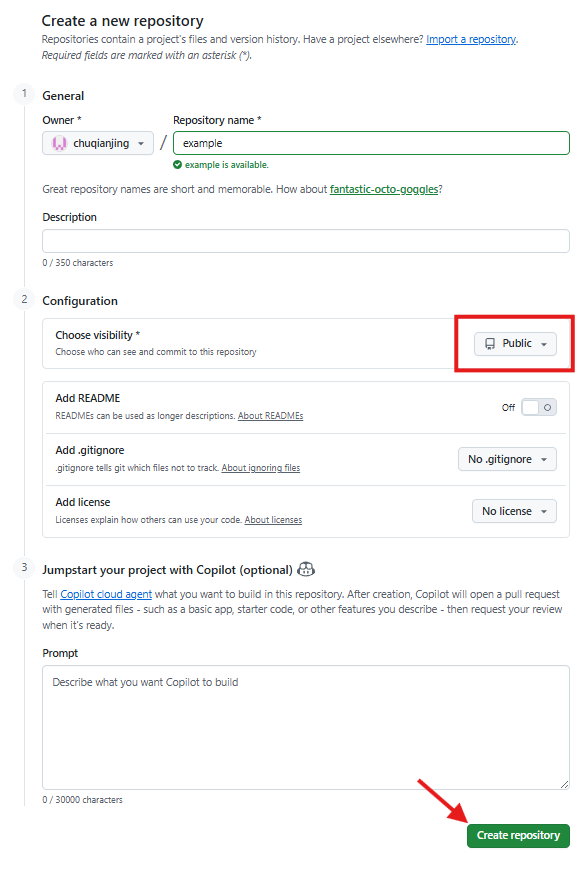
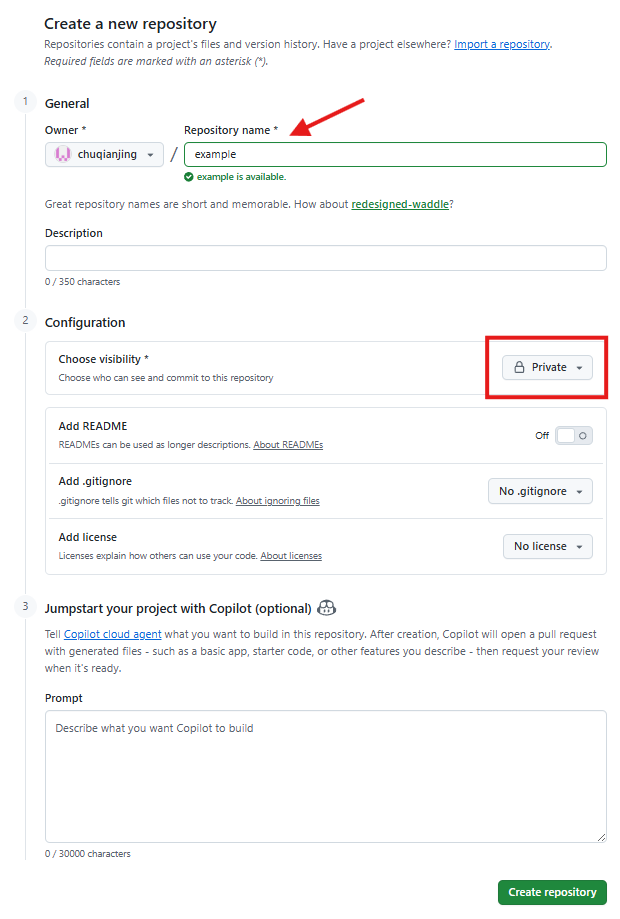
docs: 进一步完善同步设置项说明文档

diff --git a/src/ui/member_settings_page.py b/src/ui/member_settings_page.py
@@ -205,11 +205,6 @@ class MemberSettingsPage(QWidget):
         self.info_sync_time_label = QLabel("-")
         self.info_sync_time_label.setStyleSheet("color: #666;")
         info_sync_status_layout.addWidget(self.info_sync_time_label)
-        info_sync_status_layout.addSpacing(12)
-        info_sync_status_layout.addWidget(QLabel("同步平台："))
-        self.info_sync_provider_label = QLabel("-")
-        self.info_sync_provider_label.setStyleSheet("color: #666;")
-        info_sync_status_layout.addWidget(self.info_sync_provider_label)
         info_sync_status_layout.addStretch()
         info_sync_form.addLayout(info_sync_status_layout)
 
@@ -983,9 +978,6 @@ class MemberSettingsPage(QWidget):
     def _load_info_sync_status(self):
         """加载信息同步状态。"""
         info_cfg = self.data_manager.get_info_sync_settings()
-        # 从 system_settings 中获取最近一次同步使用的 provider 显示
-        recorded_provider = str(info_cfg.get("provider", "") or "")
-        self.info_sync_provider_label.setText(recorded_provider if recorded_provider else "-")
         sync_result = info_cfg.get("last_sync_result", {}) or {}
         status = str(sync_result.get("status", "") or "未测试")
         if status == "success":

diff --git a/src/persistence/settings_manager.py b/src/persistence/settings_manager.py
@@ -80,7 +80,6 @@ class SettingsManager:
     def get_default_info_sync_settings() -> Dict[str, Any]:
         return {
             "enabled": True,
-            "provider": "feishu",
             "last_sync_result": {
                 "time": "",
                 "status": "",
@@ -96,8 +95,6 @@ class SettingsManager:
             return merged
 
         merged.update({k: v for k, v in config.items() if k in merged})
-        provider = str(merged.get("provider", "feishu")).lower()
-        merged["provider"] = provider if provider in ("feishu", "tencent", "wps") else "feishu"
         return merged
 
     # ======================= 配置同步（管理员端 -> 远程） =======================

diff --git a/src/application/data_manager.py b/src/application/data_manager.py
@@ -844,7 +844,6 @@ class DataManager:
 
         current_cfg = self.get_info_sync_settings()
         now = datetime.now().isoformat()
-        current_cfg["provider"] = provider
         current_cfg["last_sync_result"] = {
             "time": now,
             "status": "success" if success else "failed",

diff --git a/docs/sync_guide.md b/docs/sync_guide.md
@@ -9,70 +9,76 @@
 
 工具借助第三方平台实现双端通信，涉及两个方向：
 
-1. **配置下发（管理员 → 成员）**：管理员将配置文件 `admin_config.json` 推送至远程仓库的静态资源 URL，成员端启动时自动拉取该文件；
-2. **信息汇总（成员 → 管理员）**：成员基本信息自动传输至管理员管理的在线表格；同时管理员在表格中维护的“预期进度”等字段会回填至成员端。
+1. **信息汇总（成员 → 管理员）**：成员基本信息自动传输至由管理员管理的在线表格；同时管理员在表格中维护的“预期进度”等字段会回填至成员端；
+2. **配置下发（管理员 → 成员）**：管理员将配置文件 `admin_config.json` 推送至远程仓库的静态资源 URL，成员端启动时自动拉取该文件。
 
-配置同步设置项的目的是，让工具通过这些项拿到能够访问相应表格、仓库的权限，从而实现查找、编辑等操作。这些设置项需要管理员在对应官网来创建。
+配置同步设置项的目的是，让工具通过这些项拿到能够访问相应表格、仓库的权限，从而实现查找、编辑等操作。这些设置项需由管理员在对应官网来创建。
 
 
 ## 一、设置在线表格（成员信息同步）
 
+该步骤务必遵循**最小权限原则**，即确保工具同步设置项既能够访问指定的成员信息汇总表，而不会访问到用户在平台上的其他隐私数据。
+
+三种平台满足该原则的策略有所不同，用户自行选取：飞书多维表格和WPS多维表格的模式均是“自建应用具备可写能力+表格允许该应用可编辑=该应用可编辑该表格”，以应用为基础、单次设置时步骤较多、但安全性更可控；而腾讯智能表格的模式是“账号授权开发API+表格允许该账号协作=该开发API可编辑该表格”，以账号为基础、单次设置时步骤较少、但安全性不太好控制。
+
 ### 1、飞书多维表格
 
-注册/登录 [飞书开放平台](https://open.feishu.cn/)，创建**企业自建应用**。企业自建应用不能归属单独个人账号，没有企业账号的用户需先在飞书客户端免费创建一个团队、然后用该账号登陆开放平台，即可创建企业自建应用。
+注册/登录 [飞书开放平台](https://open.feishu.cn/)，创建**企业自建应用**。企业自建应用不能归属单独个人账号，没有企业账号的用户需先在飞书客户端免费创建一个团队、然后用该账号登陆开放平台，即可创建企业自建应用。创建后打开该应用设置相关项。
 ![alt text](photos/飞书1.png)
 
-在应用「凭证与基础信息」中获取 **App ID** 与 **App Secret**。
+在「凭证与基础信息」中获取 **App ID** 与 **App Secret**。
 ![alt text](photos/飞书2.png)
 
-在应用「权限管理」中开通多维表格相关读写权限，具体名称是“查看、评论、编辑和管理多维表格”。
+在「权限管理」中开通多维表格相关读写权限，具体名称是“**查看、评论、编辑和管理多维表格**”。
 ![alt text](photos/飞书3.png)
 
-在应用「版本管理与发布」中创建版本并发布，使权限和应用生效。
+在「版本管理与发布」中创建版本并发布，使权限和应用生效。**注意，凡是修改了该应用的任何项，都应新建版本并发布，相应修改方能生效。**
 ![alt text](photos/飞书4.png)
 
-创建/打开一个**多维表格**，将该应用添加为表格协作者。为保护数据隐私，建议在“分享”处保持该表仅协作者可访问。
+打开飞书客户端，新建一个**多维表格**作为成员信息汇总表，**将刚才新建的企业自建应用添加为表格协作者**（否则该应用无法访问该表格）。为保护数据隐私，建议在“分享”处保持该表仅协作者可访问。
 ![alt text](photos/飞书5.png)
 
-将多维表格的分享链接复制并通过浏览器打开，此时从浏览器显示的表格链接 `https://xxx.feishu.cn/base/{AppToken}?table={TableID}` 中获取该表格的 **App Token** 与 **Table ID**。
+复制多维表格的分享链接，在浏览器粘贴并打开，此时从浏览器显示的表格链接 `https://xxx.feishu.cn/base/{AppToken}?table={TableID}` 中获取该表格的 **App Token** 与 **Table ID**。
 
 将以上的 **飞书AppID、飞书AppSecret、飞书AppToken、飞书TableID** 填入工具。
 
 ### 2、腾讯智能表格
 
-注册/登录 [腾讯文档开放平台](https://docs.qq.com/open/)，申请开发者资质。在「开发者信息」中获取 **Client ID（应用ID）**、**Access Token** 与 **Open ID**。
+注册/登录 [腾讯文档开放平台](https://docs.qq.com/open/)，申请开发者资质。在「开发者信息」中获取 **client_id**、**access_token** 与 **open_id**。特别注意，登录平台时会有微信/QQ扫码操作，平台提供的这三条信息的权限、相当于用以扫码的用户本身，即程序用这三条信息可以访问该用户名下的所有在线文档。因此，**务必使用新注册的微信/QQ小号作为开发者的账号，该小号仅用于工具这里使用的功能，其名下不要存放个人任何文档数据。**
 <div align="center">
-  <img src="photos/腾讯1.png" width="70%" alt="alt text">
+  <img src="photos/腾讯1.png" width="50%" alt="alt text">
 </div>
 
-创建/打开一个**智能表格**，从文档分享链接 `https://docs.qq.com/smartsheet/{Encoded ID}?tab={Sheet ID}` 中获取 **Encoded ID** 和 **Sheet ID**。为保护数据隐私，建议在“分享”处保持该表仅自己可访问。
+打开腾讯文档客户端，新建一个**智能表格**作为成员信息汇总表，并将创建的小号用户添加为协作者。从文档分享链接 `https://docs.qq.com/smartsheet/{EncodedID}?tab={SheetID}` 中获取 **EncodedID** 和 **SheetID**。
 <div align="center">
-  <img src="photos/腾讯2.png" width="50%" alt="alt text">
+  <img src="photos/腾讯2.png" width="40%" alt="alt text">
 </div>
 
 将以上的 **腾讯ClientID、腾讯AccessToken、腾讯OpenID、腾讯EncodedID、腾讯SheetID** 填入工具。
 
 ### 3、WPS多维表格
 
-注册/登录 [WPS开放平台](https://open.wps.cn/)，创建企业自建应用。企业自建应用不能归属单独个人账号，没有企业账号的用户需要先创建一个团队、然后用该账号登陆开放平台，即可创建企业自建应用。
+注册/登录 [WPS开放平台](https://open.wps.cn/)，创建**企业自建应用**。企业自建应用不能归属单独个人账号，没有企业账号的用户需要先在平台上创建一个团队，即可创建企业自建应用。创建后打开该应用设置相关项。
 ![alt text](photos/WPS1.png)
 
-在应用「应用信息」中获取 **应用ID** 与 **应用密钥**；
+在「应用信息」中获取 **应用ID** 与 **应用密钥**；
 ![alt text](photos/WPS2.png)
 
-在应用「权限管理」中开通多维表格相关读写权限，具体名称是“查询和管理多维表格”。
+在「权限管理」中开通多维表格相关读写权限，具体名称是“**查询和管理多维表格**”。
 ![alt text](photos/WPS3.png)
 
-在应用「版本管理」中创建版本并申请发布，并在[企业管理后台-应用市场-应用审核](https://work.wps.cn/xz/app/audit)界面通过申请，使应用生效。
+在「版本管理」中创建版本并申请发布，并在[企业管理后台-应用市场-应用审核](https://work.wps.cn/xz/app/audit)界面通过申请，使应用生效。**注意，凡是修改了该应用的任何项，都应新建版本、发布、通过，相应修改方能生效。**
 ![alt text](photos/WPS4.png)
 
-在 WPS 中创建/打开一个**多维表格**，从多维表格链接 `https://www.kdocs.cn/l/{FileID}` 中获取 **FileID**。
+打开WPS客户端，新建一个**多维表格**作为成员信息汇总表。将刚才创建的企业自建应用添加为协作者？？？？？？？？？
+
+
+从多维表格链接 `https://www.kdocs.cn/l/{FileID}` 中获取 **FileID**。
 <div align="center">
   <img src="photos/WPS5.png" width="30%" alt="alt text">
 </div>
 
-
-SheetID需要运行脚本来获取。将如下代码粘贴至下图对应位置，并获取运行结果
+**SheetID**需要运行脚本来获取。将如下代码粘贴至下图对应位置，并获取运行结果
 ```JavaScript
 function main() {
     const sheets = Application.Sheet.GetSheets();
@@ -91,67 +97,104 @@ main()
 
 ## 二、设置远程仓库（管理员配置发布）
 
+该步骤也务必遵循**最小权限原则**，即确保工具同步设置项既能够访问指定的存储仓库，而不会访问到用户在平台上的其他隐私数据。同时需要保证**访问控制范围**，即确保只有支部成员才能访问到指定数据，互联网上的无关人员仅通过URL链接无法访问之。
+
+两种平台满足如上要求的策略有所不同，用户自行选取：二者均设置仓库为私有、从而确保访问控制权限，成员端需要通过访问凭据方能访问；GitHub的设置较为简便，阿里云OSS需要依次设置自定义权限策略、RAM子用户、用户关联权限、稍微繁琐些。
+
+管理员端需要推送配置到仓库、成员端需要从仓库拉取配置，因此不论平台如何、**均需要针对双端设置不同的操作权限**。
 
 ### 1、GitHub
 
-注册/登录 [GitHub](https://github.com/)，新建一个**公开仓库**。
+注册/登录 [GitHub](https://github.com/)，新建一个**私有仓库**。
 <div align="center">
   <img src="photos/github1.png" width="50%" alt="alt text">
 </div>
 
-在 GitHub 的 Settings → Developer settings → Personal access tokens 中生成一个 Token。
+在 GitHub 的 Settings → Developer settings → Personal access tokens 中生成**两个 Token**。
 ![alt text](photos/github2.png)
 
-在token设置界面，设定仅可访问选择的仓库。勾选仓库内容写入权限（`repo` 或 `contents:write` 权限，公开仓与私有仓写入都需要）.
-<div align="center">
-  <img src="photos/github3.png" width="50%" alt="alt text">
+在token设置界面，设定仅可访问选择的仓库。通过 Add permissions → Contents，针对不同token设置不同权限：
+- 用于管理员端推送配置到仓库：权限为 `Read and write`；
+- 用于成员端从仓库拉取配置：权限为 `Read-only`。
+
+创建后生成的token务必及时保存，退出页面后不会再显示token。
+<div align="center" style="display: flex; justify-content: center; gap: 10px;">
+  <img src="photos/github3.png" width="49%" alt="github3">
+  <img src="photos/github4.png" width="49%" alt="github4">
 </div>
 
-在工具的「通用设置」页相应位置填写以下参数：
+在管理员端「通用设置」页相应位置填写以下参数：
 
 | 参数 | 说明 |
-| --- | --- |
+| :---: | :---: |
 | 仓库 | `owner/repo`，即仓库归属者/仓库名 |
 | 分支 | 默认 `main`，填写目标分支 |
 | 文件路径 | 默认 `admin_config.json`，即远程仓库中的存放路径 |
-| Token | 上一步生成的个人访问令牌 |
+| Token | 此前生成的管理员端token |
 
 成员端拉取使用的 URL 为：`https://raw.githubusercontent.com/{owner}/{repo}/{branch}/{文件路径}`。
 
+在成员端首次打开工具时弹出的「同步凭据设置」窗口、或「通用设置」页相应板块，填入此前生成的成员端token。
+
 ### 2、阿里云 OSS
 
-登录/注册 [阿里云](https://www.aliyun.com/)，前往 [对象存储OSS](https://oss.console.aliyun.com/overview)，新建一个 **Bucket**（上传时工具会自动将文件 ACL 设为 `public-read`，请确认 Bucket 支持公开读）；
+登录/注册 [阿里云](https://www.aliyun.com/)，前往 [对象存储OSS](https://oss.console.aliyun.com/overview)，新建一个 **Bucket** 作为存储仓库，新建时默认仓库私有。并记住此处的**Endpoint**和**Bucket名称**。
+![alt text](photos/阿里云OSS1.png)
 
-在 RAM 访问控制中为管理员创建一个子用户并生成 **AccessKeyId / AccessKeySecret**，授予该 Bucket 的对象读写权限（如 `PutObject`）；
+在 [RAM访问控制](https://ram.console.aliyun.com/overview) 中新建针对双端的不同权限策略，复制如下代码到指定区域、记得替换其中的 `your-bucket-name` 为实际值：
+```javascript
+// 管理员端
+{
+  "Version": "1",
+  "Statement": [
+    {
+      "Effect": "Allow",
+      "Action": [
+        "oss:GetObject",
+        "oss:PutObject",
+        "oss:AbortMultipartUpload",
+        "oss:DeleteObject"
+      ],
+      "Resource": "acs:oss:*:*:your-bucket-name/*"
+    }
+  ]
+}
 
-在工具中填写以下参数：
+// 成员端
+{
+  "Version": "1",
+  "Statement": [
+    {
+      "Effect": "Allow",
+      "Action": "oss:GetObject",
+      "Resource": "acs:oss:*:*:your-bucket-name/*"
+    }
+  ]
+}
+```
+![alt text](photos/阿里云OSS2.png)
+![alt text](photos/阿里云OSS3.png)
+
+在 [RAM访问控制](https://ram.console.aliyun.com/overview) 中新建两个子用户并生成 **AccessKeyId** 和 **AccessKeySecret**（及时保存）。
+![alt text](photos/阿里云OSS4.png)
+![alt text](photos/阿里云OSS5.png)
+
+将之前创建的两个权限，分别授予这两个用户。
+![alt text](photos/阿里云OSS6.png)
+![alt text](photos/阿里云OSS7.png)
+
+
+在管理员端「通用设置」页相应位置填写以下参数：
 
 | 参数 | 说明 |
-| --- | --- |
+| :---: | :---: |
 | Endpoint | 例如 `oss-cn-hangzhou.aliyuncs.com`，按 Bucket 所在地域填写 |
 | Bucket | 存储桶名称 |
 | Object Key | 默认 `admin_config.json`，即对象在桶中的存放路径 |
-| AccessKeyId | RAM 子用户的访问密钥 ID |
-| AccessKeySecret | RAM 子用户的访问密钥 Secret |
+| AccessKeyId | 管理员端 RAM 子用户的访问密钥 ID |
+| AccessKeySecret | 管理员端 RAM 子用户的访问密钥 Secret |
 
 成员端拉取使用的 URL 为：`https://{bucket}.{endpoint}/{object_key}`。
 
-### 3、设置加密密钥
-
-在「传输至远程时的加密密钥」输入框中填写密钥（留空则推送不加密的配置）。
-
-- 设置后，工具会在上传前对整个配置文件进行加密（PBKDF2 + Fernet）；
-- 请务必通过**线下渠道**（群聊、当面等）将解密密钥告知成员；
-- 成员端首次使用或更换密钥时，在「系统设置」页点击「更改配置解密密钥」输入该密钥，方能解密拉取到的配置。
-
-### 4、发布配置
-
-完成以上配置后，在「本地配置文件同步至远程」分组中依次：
-
-1. 点击「**测试远程连接**」，确认能正常访问目标仓库/存储桶；
-2. 点击「**保存同步设置**」，保存以上同步参数（Token、密钥等敏感信息会加密存储）；
-3. 确认「基本信息」页「双端交互」分组的「配置文件的URL」已填写正确；
-4. 点击「**立即同步到远程**」，确认后即将当前管理员配置发布到远程；页面下方会显示最近同步状态、时间与目标。
-
-> 注：此后若修改了支部配置，重新点击「立即同步到远程」即可再次发布，成员端会自动获取到最新配置。
+在成员端首次打开工具时弹出的「同步凭据设置」窗口、或「通用设置」页相应板块，填入此前生成的成员端 RAM 子用户的 **AccessKeyId** 和 **AccessKeySecret**。
 

diff --git a/docs/user-guide.md b/docs/user-guide.md
@@ -128,7 +128,7 @@
 
 #### 设置远程仓库
 
-本工具提供了GitHub和阿里云OSS两种云存储方式，用户可按需选择。在「通用设置」页的「本地配置文件同步至远程」分组，选择同步目标并配置相关参数，点击「立即同步到远程」即可保存相关参数并发布配置到远程存储仓库。由于远程仓库只有设为公开成员端方能访问，为确保配置文件不被恶意使用，强烈建议在推送至远程前为其设置加密保护。
+本工具提供了GitHub和阿里云OSS两种云存储方式，均可实现配置文件的访问控制和加密保护，用户可按需选择。在「通用设置」页的「本地配置文件同步至远程」分组，选择同步目标并配置相关参数，点击「立即同步到远程」即可保存相关参数并发布配置到远程存储仓库。
 
 远程仓库同步设置项的获取方式和具体配置，详见 [同步设置项说明](sync_guide.md#二设置远程仓库管理员配置发布)。
 
@@ -156,7 +156,7 @@
 
 ### 1、获取配置
 
-首次使用时，需要获取所在支部的管理员配置文件 `admin_config.json`，且默认需要为该文件的远程获取设置解密密钥。
+首次使用时，需要获取所在支部的管理员配置文件 `admin_config.json`，且默认需要为该文件的远程获取设置同步凭据。
 
 #### 方式一：通过 URL 同步
 
